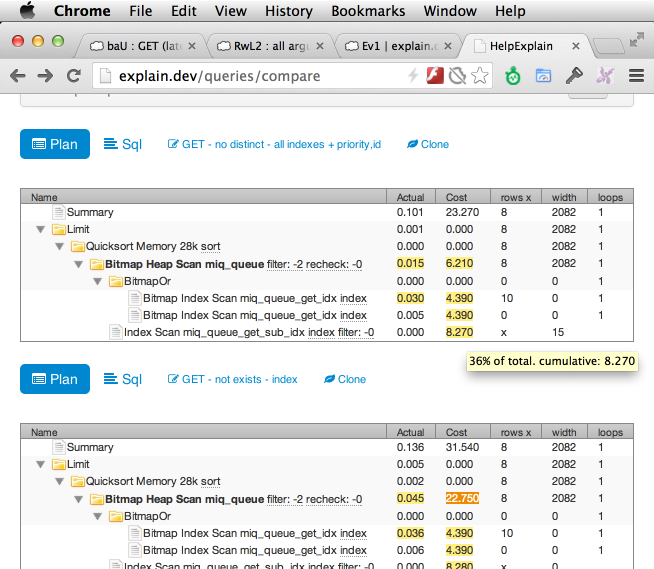
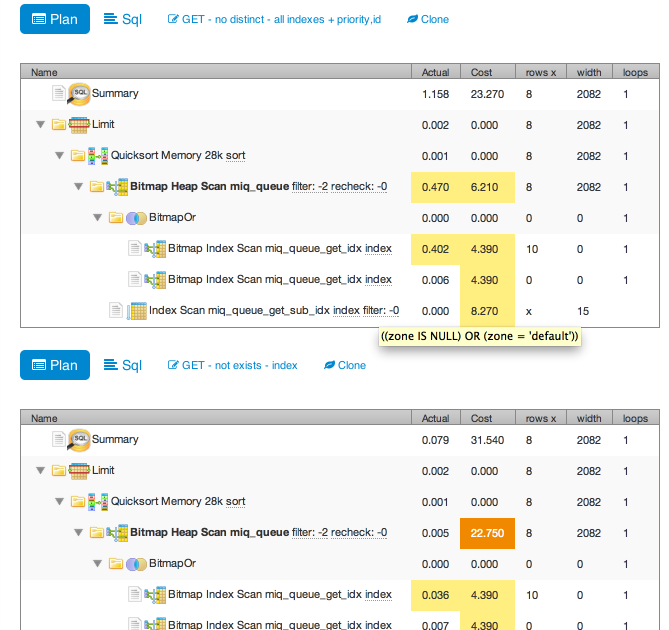
added images
- commented on running queries in transactions
- renamed plan_summary to summary

diff --git a/app/assets/stylesheets/queries.css.scss b/app/assets/stylesheets/queries.css.scss
@@ -23,3 +23,7 @@
 .low-significance {
   background-color: #fe8;
 }
+
+.type-image {
+  width: 25px;
+}

diff --git a/app/models/main_db.rb b/app/models/main_db.rb
@@ -2,7 +2,12 @@ class MainDb < ActiveRecord::Base
   @table_name='schema_migrations'
   establish_connection :main
 
+  # would like to run these within a transaction
+  # currently fetching plan while creating/updating Query and aborts transaction
   def self.plan(sql)
-    connection.execute("explain (analyze on, format json) #{sql}").first["QUERY PLAN"]
+    #transaction do
+      connection.execute("explain (analyze on, format json) #{sql}").first["QUERY PLAN"]
+    #  raise ActiveRecord::Rollback
+    #end
   end
 end

diff --git a/app/models/plan_node.rb b/app/models/plan_node.rb
@@ -49,6 +49,7 @@ class PlanNode
   end
 
   hash_accessor "Node Type", "type"
+  hash_accessor "Join Type"
 
   #UI - belongs in decorator
   def name
@@ -60,6 +61,10 @@ class PlanNode
     else
       "#{type}"
     end
+  end
+
+  def plan_img
+    ["ex_", type, join_type.to_s.gsub(/^Inner$/,''), '.png'].join('').gsub(' ','_').downcase
   end
 
   ignore_attribute "Plans"

diff --git a/app/models/query.rb b/app/models/query.rb
@@ -7,7 +7,7 @@ class Query < ActiveRecord::Base
 
   validate :parsable_json
 
-  delegate :plan_summary, :total_time, to: :query_plan
+  delegate :summary, :total_time, to: :query_plan
 
   def query_plan
     @query_plan ||= Plan.new(plan)

diff --git a/app/models/plan.rb b/app/models/plan.rb
@@ -18,7 +18,7 @@ class Plan
     @attr.present?
   end
 
-  def plan_summary
+  def summary
     (node.total_type(0.002).uniq).join(", ").gsub(/  *, */,', ')
   end
 

diff --git a/README.md b/README.md
@@ -1,7 +1,18 @@
 Rails app to view and compare postgres [explain plans][].
 Thanks for great [inspiration][].
 
+While researching how to [parse explain plans][], I found a great 2 part article [first][], [second][] with a fun graph and images from [pgadmin][].
+
+Good [index information][] and want to get as much of that as possible into plan
+
+[first]: http://www.postgresonline.com/journal/archives/174-pgexplain90formats_part1.html
+[second]: http://www.postgresonline.com/journal/archives/174-pgexplain90formats_part2.html
+[parse explain plans]: http://postgresql.1045698.n5.nabble.com/Parsing-output-of-EXPLAIN-command-in-PostgreSQL-td4981575.html
+[pgadmin]: http://www.postgresql.org/ftp/pgadmin3/release/v1.18.1/src/
 [explain plans]: http://www.postgresql.org/docs/9.3/static/using-explain.html
 [inspiration]: http://explain.depesz.com/
+[index information]: http://use-the-index-luke.com/sql/explain-plan/postgresql/operations
 
 ![compare view](docs/compare.png)
+
+
